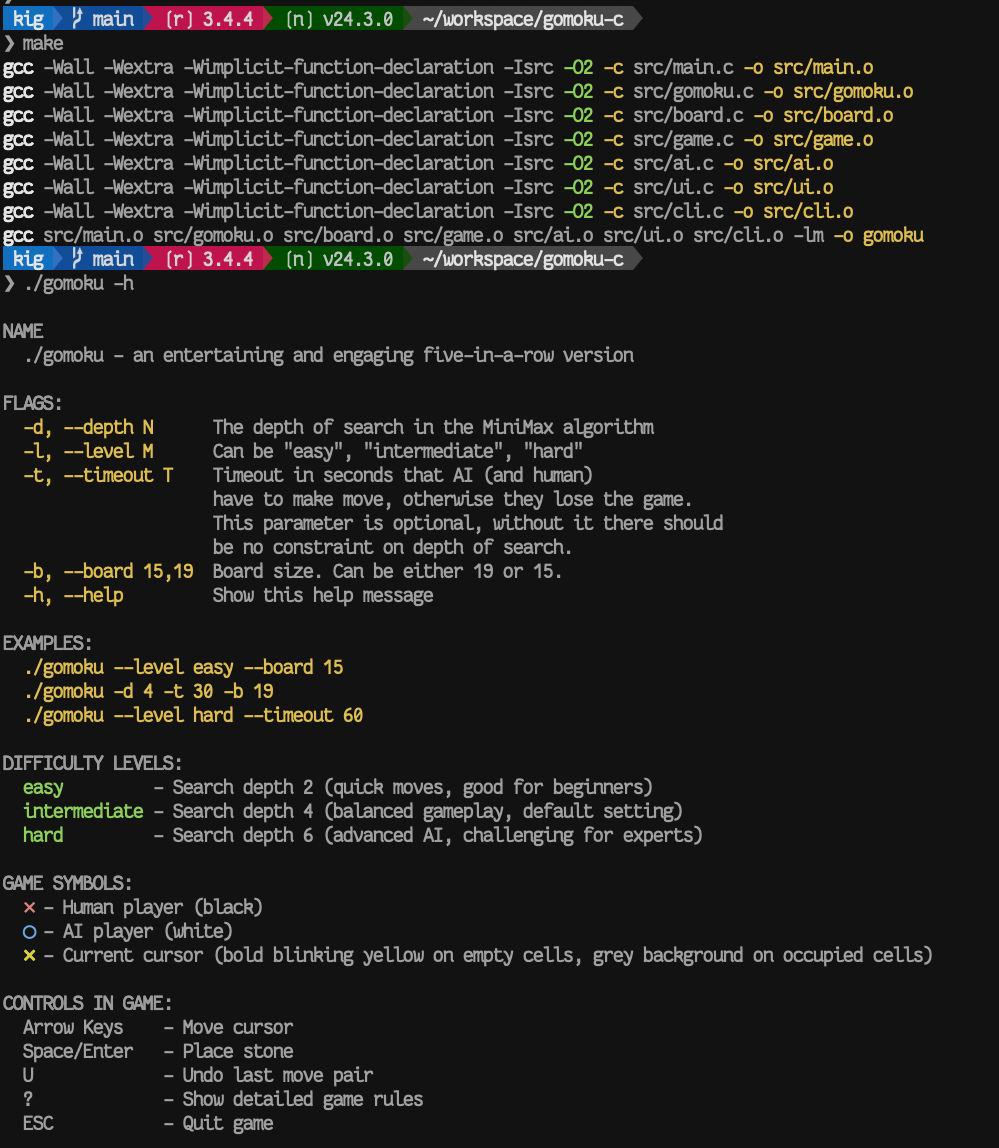
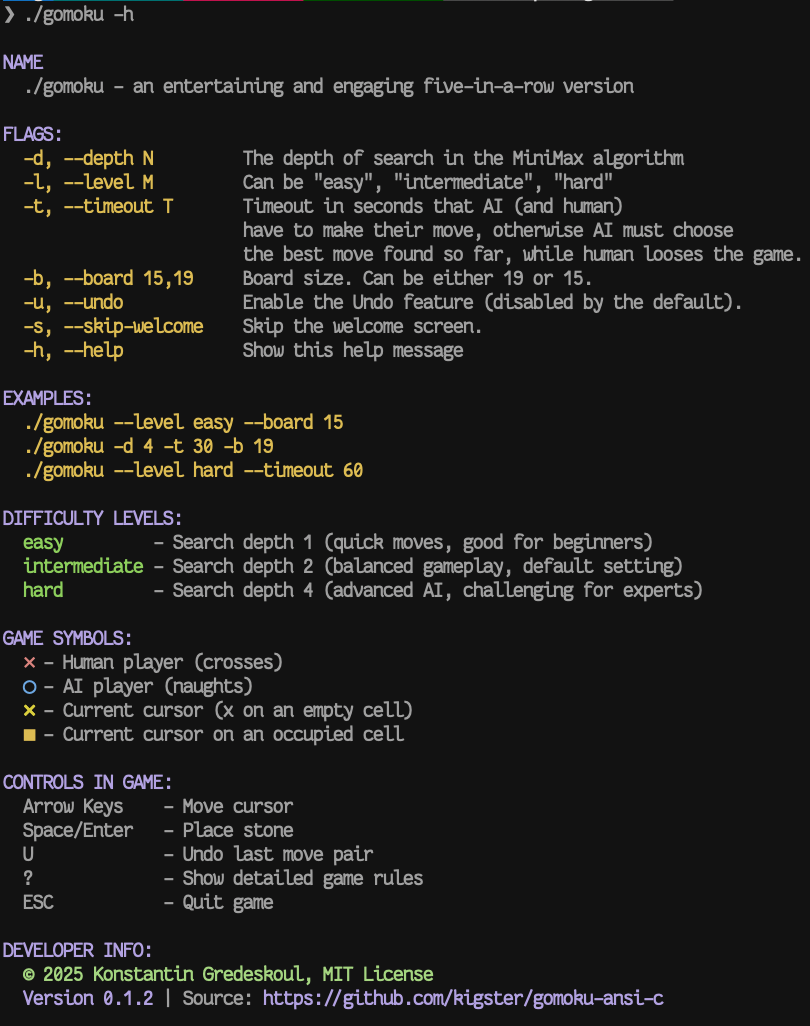
Fix make release and update images

Changed region(s): [[0.0, 0.0, 0.9877, 0.9981]]

diff --git a/README.md b/README.md
@@ -9,9 +9,9 @@ A C implementation of the Gomoku (Five-in-a-Row) game featuring an AI opponent u
 
 It is exceedingly difficult to win even on Medium setting, which only looks ahead a few moves. This game was popular in the former Soviet Union, but it was called "crosses and naughts" (крестики и нолики).
 
-Here is a screenshot of a game I played against the algorithm. This game is not finished, but you get the idea.
+Below is the screenshot of the help screen of the game, since it's a CLI/Terminal game.
 
-<img src="doc/gomoku-game.png" width="700" border="1" style="border-radius: 10px"/>
+<img src="doc/gomoku-help.png" width="700" border="1" style="border-radius: 10px"/>
 
 ## Screen Shots
 
@@ -19,7 +19,7 @@ Picture is worth a thousand words, right?
 
 Here is how to compile and run the game:
 
-<img src="doc/gomoku-help.png" width="700" border="1" style="border-radius: 10px"/>
+<img src="doc/gomoku-build.png" width="700" border="1" style="border-radius: 10px"/>
 
 ## Features
 
@@ -108,10 +108,9 @@ make clean
 
 ### Completed Game Screenshot
 
-Here is the game where the AI prevailed, and human lost.
+Here is the game where the human player prevailed:
 
 <img src="doc/gomoku-play.png" width="700" border="1" style="border-radius: 10px"/>
-
 
 ---
 
